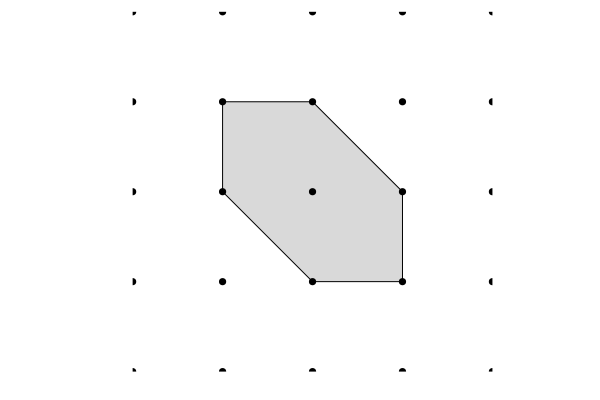
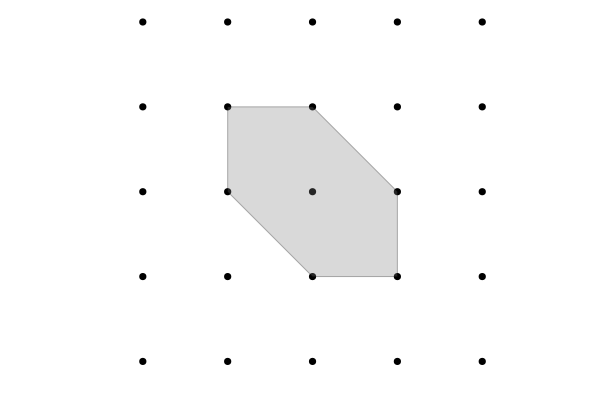
rewrite quick start

diff --git a/docs/src/index.md b/docs/src/index.md
@@ -1,32 +1,27 @@
 # RationalPolygons.jl
 
-[RationalPolygons.jl](https://github.com/justus-springer/RationalPolygons.jl)
-is a pure Julia package for computations with rational convex polygons. It implements
+[RationalPolygons.jl](https://github.com/justus-springer/RationalPolygons.jl) is
+a pure Julia package for computations with rational polygons. A _rational
+polygon_ is a convex two-dimensional polytope with vertices in ``\mathbb{Q}``.
+It implements [counting lattice points](polygons.md#Counting-lattice-points),
+[Ehrhart Theory](polygons.md#Ehrhart-Theory), [normal
+forms](polygons.md#Normal-forms), [automorphism
+groups](polygons.md#Automorphism-groups), [computation of
+subpolygons](subpolygons.md) as well as various [classification
+algorithms](classifications.md).
 
-- [counting lattice points](polygons.md#Counting-lattice-points),
-  [Ehrhart Theory](polygons.md#Ehrhart-Theory),
-  [normal forms](polygons.md#Normal-forms),
-  [automorphism groups](polygons.md#Automorphism-groups),
-  [computation of subpolygons](subpolygons.md),
-- various [classification algorithms](classifications.md) for integral and rational polygons.
-
-I have written RationalPolygons.jl in the span of about six months while
-working on a joint project with Martin Bohnert [BS24_1](@cite). Its main purpose
-is to provide reference implementations of the classification algorithms
-developed in our paper. However, it also implements many more basic algorithms
-for computations with rational polygons that I believe might be useful in other
-projects, hence I have documented them here. RationalPolygons.jl does not make
-use of any external computer algebra system but implements all necessary
-algorithms, including two-dimensional euclidian geometry, from scratch in pure
-Julia. This allows for quite good performance, with computations involving
-billions of polygons being feasable on a personal computer.
+RationalPolygons.jl does not make use of any external computer algebra system
+but implements all necessary algorithms, including two-dimensional euclidian
+geometry, from scratch in pure Julia. This allows for quite good performance,
+with computations involving billions of polygons being feasable on a personal
+computer.
 
 ## Quick start
 
 ```@repl quick_start
-using RationalPolygons
+using RationalPolygons, Plots
 P = convex_hull(LatticePoint{Int}[(1,0),(0,1),(-1,1),(-1,0),(0,-1),(1,-1)])
-plot_polygon(P)
+plot(P)
 ```
 
 ![image](example_polygon.png)
